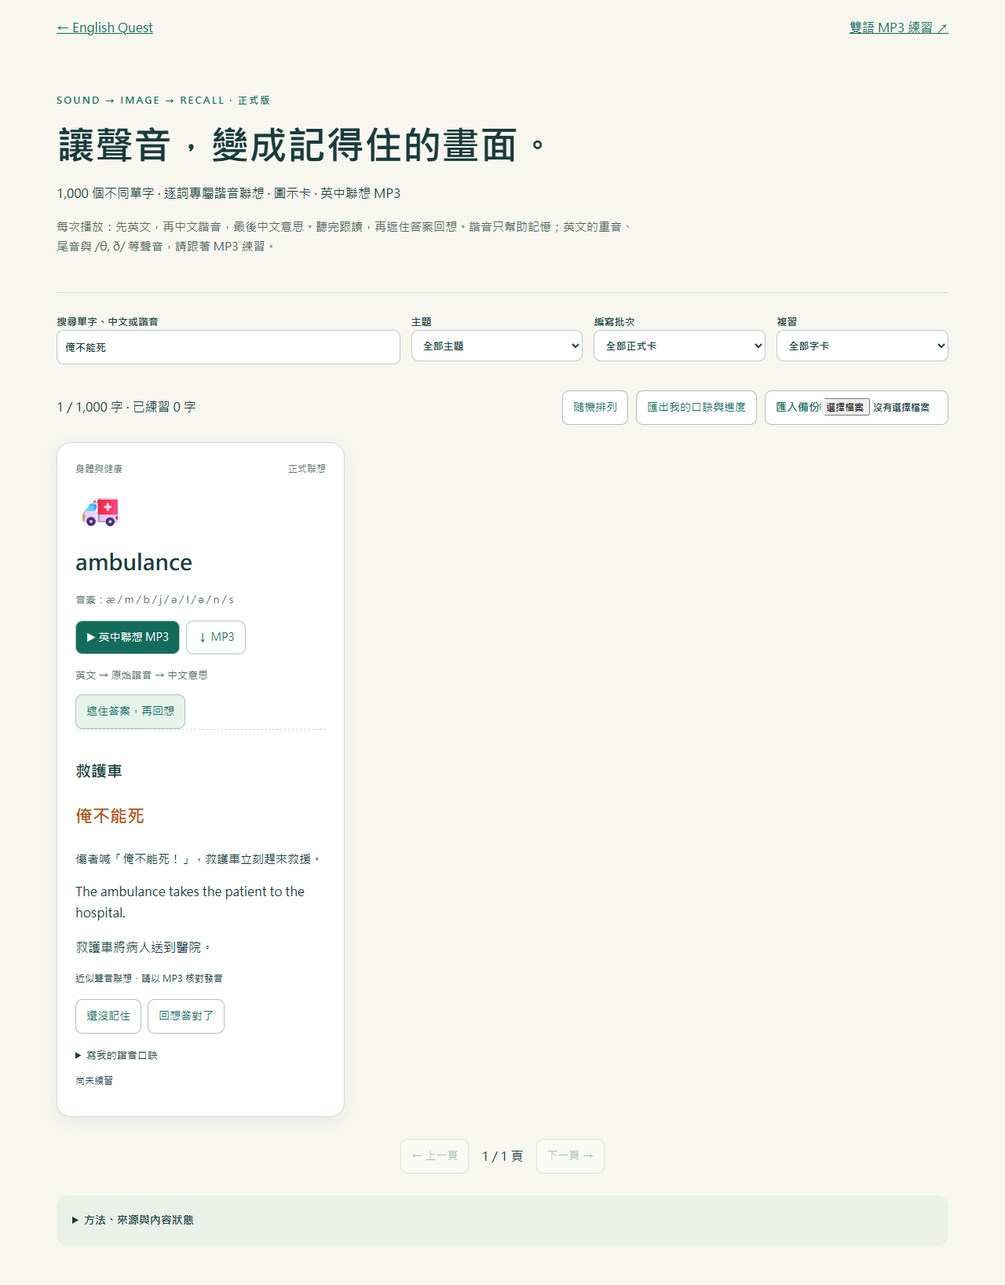
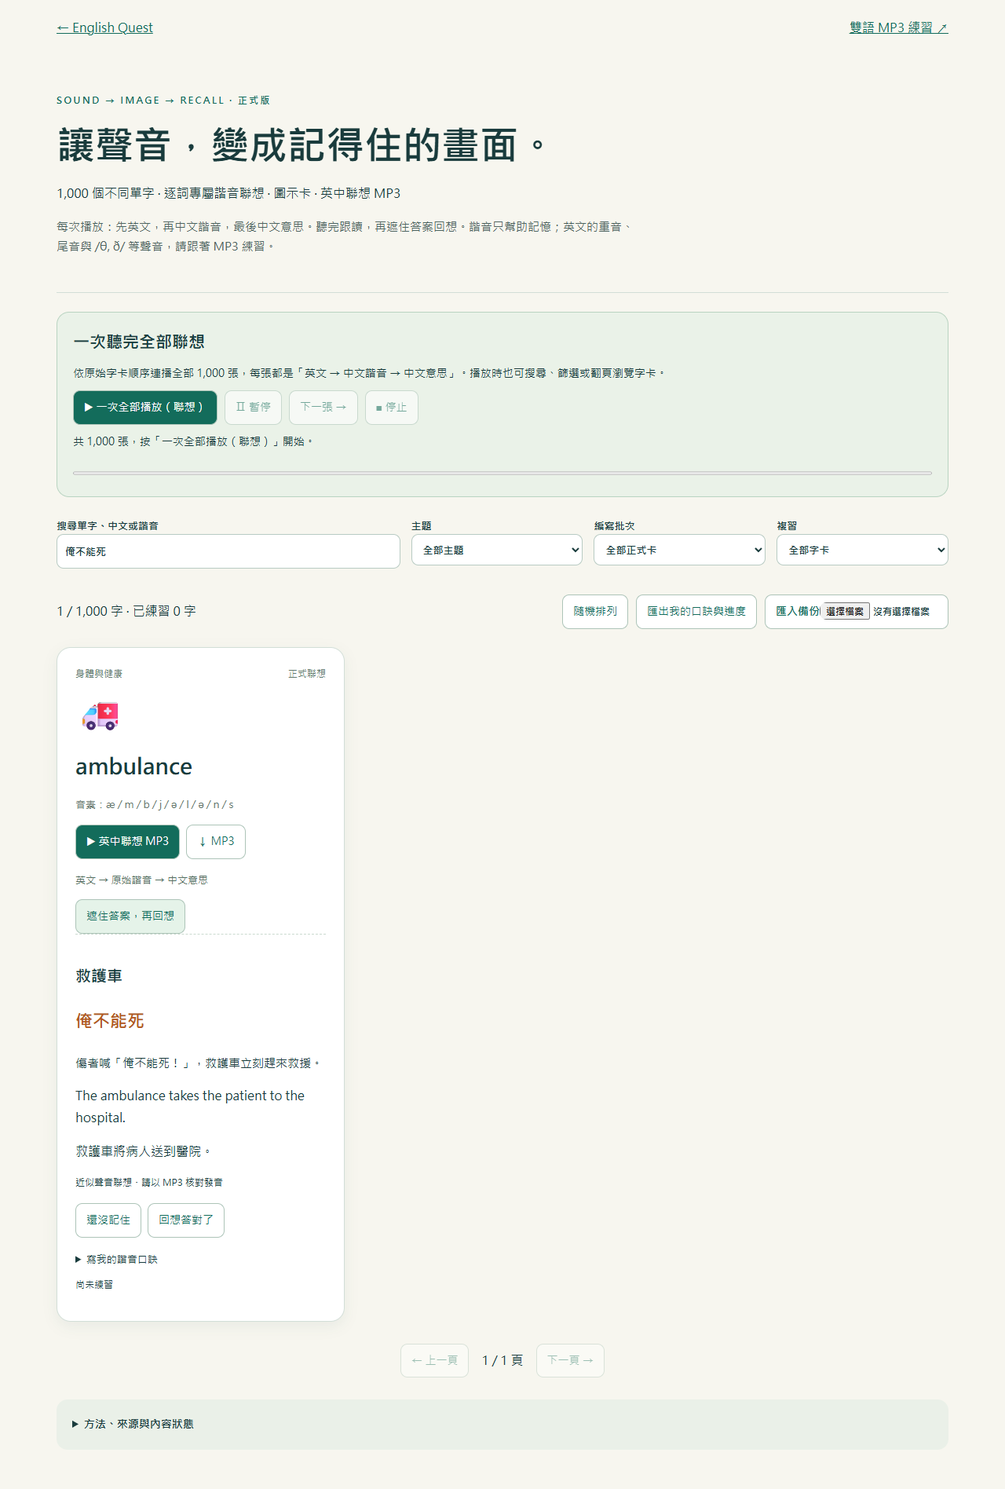
Add play all mnemonic cards with pause and queue controls

diff --git a/dist/mnemonics/index.html b/dist/mnemonics/index.html
@@ -1,8 +1,9 @@
 <!doctype html>
-<html lang="zh-Hant"><head><meta charset="utf-8"><meta name="viewport" content="width=device-width,initial-scale=1"><title>1,000 字諧音圖示卡 · English Quest</title><link rel="stylesheet" href="style.css?v=trio3"></head>
+<html lang="zh-Hant"><head><meta charset="utf-8"><meta name="viewport" content="width=device-width,initial-scale=1"><title>1,000 字諧音圖示卡 · English Quest</title><link rel="stylesheet" href="style.css?v=playlist4"></head>
 <body><header><a href="../index.html">← English Quest</a><a href="../index.html#wordaudio">雙語 MP3 練習 ↗</a></header>
 <main><section class="hero"><p class="eyebrow">SOUND → IMAGE → RECALL · 正式版</p><h1>讓聲音，變成記得住的畫面。</h1><p>1,000 個不同單字 · 逐詞專屬諧音聯想 · 圖示卡 · 英中聯想 MP3</p><p class="hint">每次播放：先英文，再中文諧音，最後中文意思。聽完跟讀，再遮住答案回想。諧音只幫助記憶；英文的重音、尾音與 /θ, ð/ 等聲音，請跟著 MP3 練習。</p></section>
+<section class="all-listening" aria-label="全部聯想連播"><h2>一次聽完全部聯想</h2><p>依原始字卡順序連播全部 1,000 張，每張都是「英文 → 中文諧音 → 中文意思」。播放時也可搜尋、篩選或翻頁瀏覽字卡。</p><div class="all-controls"><button id="play-all" class="primary" type="button" disabled>▶ 一次全部播放（聯想）</button><button id="all-pause" type="button" disabled aria-pressed="false">Ⅱ 暫停</button><button id="all-next" type="button" disabled>下一張 →</button><button id="all-stop" type="button" disabled>■ 停止</button></div><p id="all-status" role="status">正在準備播放清單…</p><progress id="all-progress" max="1000" value="0" aria-label="全部聯想播放進度"></progress></section>
 <section class="toolbar" aria-label="篩選字卡"><label>搜尋單字、中文或諧音<input id="search" type="search" placeholder="試試 ambulance 或 俺不能死"></label><label>主題<select id="category"><option value="">全部主題</option></select></label><label>編寫批次<select id="kind"><option value="">全部正式卡</option><option>本次補齊</option><option>原有聯想</option></select></label><label>複習<select id="review"><option value="all">全部字卡</option><option value="due">到期複習</option><option value="new">尚未練習</option></select></label></section>
 <div class="summary"><p id="count" role="status">正在載入字卡…</p><button id="shuffle" type="button">隨機排列</button><button id="export" type="button">匯出我的口訣與進度</button><label class="import">匯入備份<input id="import" type="file" accept="application/json,.json"></label></div>
 <p id="notice" role="status"></p><section id="cards" class="grid" aria-label="諧音記憶字卡"></section><nav class="pagination" aria-label="分頁"><button id="prev">← 上一頁</button><span id="page"></span><button id="next">下一頁 →</button></nav>
-<details class="sources"><summary>方法、來源與內容狀態</summary><p>這裡的 1,000 張卡使用本站繁體中文釋義，英文聲音序列由 CMU 美式發音辭典轉換；序列以斜線分隔音素，不是字典式分音節 IPA。每個 MP3 依序包含美式英文、臺灣中文諧音及中文意思。lead、read、subject 的英文依本卡詞義從明確語境擷取，其餘沿用既有英文音檔。中文意思省略括號中的文法備註；不朗讀完整聯想故事。</p><p id="editorial"></p><p>諧音採近似聲音，有些加入人物名字或只取部分音素；不是標準發音或字源解釋。圖示使用系統 Emoji。聯想由 AI 輔助逐詞編寫並對照聲音及詞義，完成本站內容檢查，未經外部教師審定。你仍可改成更適合自己的口訣。</p><p>研究在特定實驗條件下支持關鍵字聯想結合回想練習，不能保證每張卡的記憶效果。本站採用答錯十分鐘、答對一／三／七／十四天的複習間隔，屬產品設計。</p><ul><li><a href="https://pmc.ncbi.nlm.nih.gov/articles/PMC10839596/">Qu 等人，2024：關鍵字記憶法與回想練習研究</a></li><li><a href="https://github.com/cmusphinx/cmudict">CMU Pronouncing Dictionary（發音資料及授權）</a></li><li><a href="https://dictionary.cambridge.org/us/pronunciation/english/ambulance">Cambridge：ambulance 正確發音</a></li></ul><p>「俺不能死」依你的範例編寫。想像傷者呼救與救護車到場，實際救援仍交由專業人員。</p><p>進度存在此瀏覽器，請匯出備份以跨裝置保存。</p></details></main><script type="module" src="app.mjs?v=trio3"></script></body></html>
+<details class="sources"><summary>方法、來源與內容狀態</summary><p>這裡的 1,000 張卡使用本站繁體中文釋義，英文聲音序列由 CMU 美式發音辭典轉換；序列以斜線分隔音素，不是字典式分音節 IPA。每個 MP3 依序包含美式英文、臺灣中文諧音及中文意思。lead、read、subject 的英文依本卡詞義從明確語境擷取，其餘沿用既有英文音檔。中文意思省略括號中的文法備註；不朗讀完整聯想故事。</p><p id="editorial"></p><p>諧音採近似聲音，有些加入人物名字或只取部分音素；不是標準發音或字源解釋。圖示使用系統 Emoji。聯想由 AI 輔助逐詞編寫並對照聲音及詞義，完成本站內容檢查，未經外部教師審定。你仍可改成更適合自己的口訣。</p><p>研究在特定實驗條件下支持關鍵字聯想結合回想練習，不能保證每張卡的記憶效果。本站採用答錯十分鐘、答對一／三／七／十四天的複習間隔，屬產品設計。</p><ul><li><a href="https://pmc.ncbi.nlm.nih.gov/articles/PMC10839596/">Qu 等人，2024：關鍵字記憶法與回想練習研究</a></li><li><a href="https://github.com/cmusphinx/cmudict">CMU Pronouncing Dictionary（發音資料及授權）</a></li><li><a href="https://dictionary.cambridge.org/us/pronunciation/english/ambulance">Cambridge：ambulance 正確發音</a></li></ul><p>「俺不能死」依你的範例編寫。想像傷者呼救與救護車到場，實際救援仍交由專業人員。</p><p>進度存在此瀏覽器，請匯出備份以跨裝置保存。</p></details></main><script type="module" src="app.mjs?v=playlist4"></script></body></html>

diff --git a/site/dist/mnemonics/index.html b/site/dist/mnemonics/index.html
@@ -1,8 +1,9 @@
 <!doctype html>
-<html lang="zh-Hant"><head><meta charset="utf-8"><meta name="viewport" content="width=device-width,initial-scale=1"><title>1,000 字諧音圖示卡 · English Quest</title><link rel="stylesheet" href="style.css?v=trio3"></head>
+<html lang="zh-Hant"><head><meta charset="utf-8"><meta name="viewport" content="width=device-width,initial-scale=1"><title>1,000 字諧音圖示卡 · English Quest</title><link rel="stylesheet" href="style.css?v=playlist4"></head>
 <body><header><a href="../index.html">← English Quest</a><a href="../index.html#wordaudio">雙語 MP3 練習 ↗</a></header>
 <main><section class="hero"><p class="eyebrow">SOUND → IMAGE → RECALL · 正式版</p><h1>讓聲音，變成記得住的畫面。</h1><p>1,000 個不同單字 · 逐詞專屬諧音聯想 · 圖示卡 · 英中聯想 MP3</p><p class="hint">每次播放：先英文，再中文諧音，最後中文意思。聽完跟讀，再遮住答案回想。諧音只幫助記憶；英文的重音、尾音與 /θ, ð/ 等聲音，請跟著 MP3 練習。</p></section>
+<section class="all-listening" aria-label="全部聯想連播"><h2>一次聽完全部聯想</h2><p>依原始字卡順序連播全部 1,000 張，每張都是「英文 → 中文諧音 → 中文意思」。播放時也可搜尋、篩選或翻頁瀏覽字卡。</p><div class="all-controls"><button id="play-all" class="primary" type="button" disabled>▶ 一次全部播放（聯想）</button><button id="all-pause" type="button" disabled aria-pressed="false">Ⅱ 暫停</button><button id="all-next" type="button" disabled>下一張 →</button><button id="all-stop" type="button" disabled>■ 停止</button></div><p id="all-status" role="status">正在準備播放清單…</p><progress id="all-progress" max="1000" value="0" aria-label="全部聯想播放進度"></progress></section>
 <section class="toolbar" aria-label="篩選字卡"><label>搜尋單字、中文或諧音<input id="search" type="search" placeholder="試試 ambulance 或 俺不能死"></label><label>主題<select id="category"><option value="">全部主題</option></select></label><label>編寫批次<select id="kind"><option value="">全部正式卡</option><option>本次補齊</option><option>原有聯想</option></select></label><label>複習<select id="review"><option value="all">全部字卡</option><option value="due">到期複習</option><option value="new">尚未練習</option></select></label></section>
 <div class="summary"><p id="count" role="status">正在載入字卡…</p><button id="shuffle" type="button">隨機排列</button><button id="export" type="button">匯出我的口訣與進度</button><label class="import">匯入備份<input id="import" type="file" accept="application/json,.json"></label></div>
 <p id="notice" role="status"></p><section id="cards" class="grid" aria-label="諧音記憶字卡"></section><nav class="pagination" aria-label="分頁"><button id="prev">← 上一頁</button><span id="page"></span><button id="next">下一頁 →</button></nav>
-<details class="sources"><summary>方法、來源與內容狀態</summary><p>這裡的 1,000 張卡使用本站繁體中文釋義，英文聲音序列由 CMU 美式發音辭典轉換；序列以斜線分隔音素，不是字典式分音節 IPA。每個 MP3 依序包含美式英文、臺灣中文諧音及中文意思。lead、read、subject 的英文依本卡詞義從明確語境擷取，其餘沿用既有英文音檔。中文意思省略括號中的文法備註；不朗讀完整聯想故事。</p><p id="editorial"></p><p>諧音採近似聲音，有些加入人物名字或只取部分音素；不是標準發音或字源解釋。圖示使用系統 Emoji。聯想由 AI 輔助逐詞編寫並對照聲音及詞義，完成本站內容檢查，未經外部教師審定。你仍可改成更適合自己的口訣。</p><p>研究在特定實驗條件下支持關鍵字聯想結合回想練習，不能保證每張卡的記憶效果。本站採用答錯十分鐘、答對一／三／七／十四天的複習間隔，屬產品設計。</p><ul><li><a href="https://pmc.ncbi.nlm.nih.gov/articles/PMC10839596/">Qu 等人，2024：關鍵字記憶法與回想練習研究</a></li><li><a href="https://github.com/cmusphinx/cmudict">CMU Pronouncing Dictionary（發音資料及授權）</a></li><li><a href="https://dictionary.cambridge.org/us/pronunciation/english/ambulance">Cambridge：ambulance 正確發音</a></li></ul><p>「俺不能死」依你的範例編寫。想像傷者呼救與救護車到場，實際救援仍交由專業人員。</p><p>進度存在此瀏覽器，請匯出備份以跨裝置保存。</p></details></main><script type="module" src="app.mjs?v=trio3"></script></body></html>
+<details class="sources"><summary>方法、來源與內容狀態</summary><p>這裡的 1,000 張卡使用本站繁體中文釋義，英文聲音序列由 CMU 美式發音辭典轉換；序列以斜線分隔音素，不是字典式分音節 IPA。每個 MP3 依序包含美式英文、臺灣中文諧音及中文意思。lead、read、subject 的英文依本卡詞義從明確語境擷取，其餘沿用既有英文音檔。中文意思省略括號中的文法備註；不朗讀完整聯想故事。</p><p id="editorial"></p><p>諧音採近似聲音，有些加入人物名字或只取部分音素；不是標準發音或字源解釋。圖示使用系統 Emoji。聯想由 AI 輔助逐詞編寫並對照聲音及詞義，完成本站內容檢查，未經外部教師審定。你仍可改成更適合自己的口訣。</p><p>研究在特定實驗條件下支持關鍵字聯想結合回想練習，不能保證每張卡的記憶效果。本站採用答錯十分鐘、答對一／三／七／十四天的複習間隔，屬產品設計。</p><ul><li><a href="https://pmc.ncbi.nlm.nih.gov/articles/PMC10839596/">Qu 等人，2024：關鍵字記憶法與回想練習研究</a></li><li><a href="https://github.com/cmusphinx/cmudict">CMU Pronouncing Dictionary（發音資料及授權）</a></li><li><a href="https://dictionary.cambridge.org/us/pronunciation/english/ambulance">Cambridge：ambulance 正確發音</a></li></ul><p>「俺不能死」依你的範例編寫。想像傷者呼救與救護車到場，實際救援仍交由專業人員。</p><p>進度存在此瀏覽器，請匯出備份以跨裝置保存。</p></details></main><script type="module" src="app.mjs?v=playlist4"></script></body></html>

diff --git a/dist/mnemonics/style.css b/dist/mnemonics/style.css
@@ -1,4 +1,5 @@
 @import url('../learning_layout.css');
 .sound-note{background:#f1f5ed;border-left:3px solid #91b6a0;border-radius:4px;padding:10px 12px;font-size:13px;line-height:1.8}
 .audio-order{font-size:13px;color:#526e60;margin:0 0 14px}
+.all-listening{margin:24px 0 0;padding:20px;border:1px solid #b9d4c1;border-radius:16px;background:#eaf2e8}.all-listening h2{font-size:21px;margin:0 0 8px}.all-controls{display:flex;gap:9px;flex-wrap:wrap}.all-controls .primary{background:#136c5b;color:white}.all-listening p{font-size:14px;margin:10px 0}.all-listening progress{width:100%;height:9px;accent-color:#136c5b}.word-card.is-playing{border:2px solid #136c5b}.all-controls button:disabled{opacity:.55}
 :root{color-scheme:light;--ink:#193b3c;--green:#136c5b;--cream:#f7f6ef}*{box-sizing:border-box}body{margin:0;background:var(--cream);color:var(--ink);font-family:system-ui,'Microsoft JhengHei',sans-serif;line-height:1.7}header{max-width:1180px;margin:auto;padding:22px;display:flex;justify-content:space-between;gap:16px;flex-wrap:wrap}a{color:var(--green)}main{max-width:1180px;margin:auto;padding:0 22px 50px}.hero{padding:35px 0 30px;border-bottom:1px solid #d2ded7}.eyebrow{font-size:12px;letter-spacing:.19em;color:var(--green);font-weight:800}h1{font-size:clamp(28px,4.4vw,49px);line-height:1.35;margin:12px 0}h2{font-size:28px;margin:6px 0;overflow-wrap:anywhere}.hint{max-width:740px;font-size:15px;color:#4d6460}.toolbar{display:grid;grid-template-columns:2fr 1fr 1fr 1fr;gap:14px;padding:25px 0}label{display:block;font-size:13px;font-weight:600}input,select,textarea,button{font:inherit}input,select,textarea{width:100%;padding:10px;border:1px solid #b8cbc3;border-radius:9px;color:var(--ink);background:#fff;min-width:0}button,.download,.import{border:1px solid #adc4b8;background:#fff;color:var(--green);border-radius:9px;padding:9px 13px;cursor:pointer;font-size:14px;text-decoration:none}button:hover,.download:hover{background:#e5f3e9}button:disabled{opacity:.4;cursor:default}button:focus-visible,a:focus-visible,input:focus-visible,summary:focus-visible,select:focus-visible,textarea:focus-visible{outline:3px solid #d97d24;outline-offset:3px}.summary{display:flex;gap:10px;align-items:center;flex-wrap:wrap;margin-bottom:15px}.summary p{margin-right:auto}.import input{max-width:150px;padding:0;border:0;font-size:12px}.grid{display:grid;grid-template-columns:repeat(3,minmax(0,1fr));gap:18px}.word-card{padding:23px;background:#fff;border:1px solid #d2ded7;border-radius:18px;box-shadow:0 6px 18px #153b3010;min-width:0}.topline{display:flex;justify-content:space-between;align-items:center;font-size:12px;color:#627a6e;gap:10px}.icon{font-size:46px}.phonetic{font-size:13px;overflow-wrap:anywhere;color:#65766c}.actions{display:flex;gap:8px;flex-wrap:wrap;margin:15px 0}.play{background:var(--green);color:#fff}.play:hover{background:#195e52}.answer{border-top:1px dashed #cadacf;padding-top:16px}.cue{font-size:22px;font-weight:750;color:#b25820;overflow-wrap:anywhere}.scene{font-size:15px}.meaning{font-size:20px;font-weight:750}.grade{display:flex;gap:8px;margin:16px 0}.status{font-size:12px}.custom{margin-top:14px}.custom summary{cursor:pointer;font-size:13px}textarea{margin:10px 0;min-height:75px}.pagination{display:flex;justify-content:center;align-items:center;gap:16px;margin:28px 0}.sources{padding:20px;background:#eaf0e8;border-radius:14px;font-size:14px}.sources summary{font-weight:700;cursor:pointer}#notice:empty{display:none}#notice{padding:10px;background:#fff3de;border-radius:8px}audio{width:100%;margin-bottom:12px}#player-status{font-size:13px} @media(max-width:900px){.grid{grid-template-columns:repeat(2,minmax(0,1fr))}.toolbar{grid-template-columns:repeat(2,minmax(0,1fr))}}@media(max-width:560px){main,header{padding-left:16px;padding-right:16px}.hero{padding-top:15px}.grid{grid-template-columns:1fr}.toolbar{gap:9px}.toolbar label:first-child{grid-column:1/-1}.word-card{padding:19px}.summary p{width:100%;margin:0}.pagination{gap:10px}}@media(prefers-reduced-motion:reduce){*{scroll-behavior:auto!important}}

diff --git a/site/dist/mnemonics/style.css b/site/dist/mnemonics/style.css
@@ -1,4 +1,5 @@
 @import url('../learning_layout.css');
 .sound-note{background:#f1f5ed;border-left:3px solid #91b6a0;border-radius:4px;padding:10px 12px;font-size:13px;line-height:1.8}
 .audio-order{font-size:13px;color:#526e60;margin:0 0 14px}
+.all-listening{margin:24px 0 0;padding:20px;border:1px solid #b9d4c1;border-radius:16px;background:#eaf2e8}.all-listening h2{font-size:21px;margin:0 0 8px}.all-controls{display:flex;gap:9px;flex-wrap:wrap}.all-controls .primary{background:#136c5b;color:white}.all-listening p{font-size:14px;margin:10px 0}.all-listening progress{width:100%;height:9px;accent-color:#136c5b}.word-card.is-playing{border:2px solid #136c5b}.all-controls button:disabled{opacity:.55}
 :root{color-scheme:light;--ink:#193b3c;--green:#136c5b;--cream:#f7f6ef}*{box-sizing:border-box}body{margin:0;background:var(--cream);color:var(--ink);font-family:system-ui,'Microsoft JhengHei',sans-serif;line-height:1.7}header{max-width:1180px;margin:auto;padding:22px;display:flex;justify-content:space-between;gap:16px;flex-wrap:wrap}a{color:var(--green)}main{max-width:1180px;margin:auto;padding:0 22px 50px}.hero{padding:35px 0 30px;border-bottom:1px solid #d2ded7}.eyebrow{font-size:12px;letter-spacing:.19em;color:var(--green);font-weight:800}h1{font-size:clamp(28px,4.4vw,49px);line-height:1.35;margin:12px 0}h2{font-size:28px;margin:6px 0;overflow-wrap:anywhere}.hint{max-width:740px;font-size:15px;color:#4d6460}.toolbar{display:grid;grid-template-columns:2fr 1fr 1fr 1fr;gap:14px;padding:25px 0}label{display:block;font-size:13px;font-weight:600}input,select,textarea,button{font:inherit}input,select,textarea{width:100%;padding:10px;border:1px solid #b8cbc3;border-radius:9px;color:var(--ink);background:#fff;min-width:0}button,.download,.import{border:1px solid #adc4b8;background:#fff;color:var(--green);border-radius:9px;padding:9px 13px;cursor:pointer;font-size:14px;text-decoration:none}button:hover,.download:hover{background:#e5f3e9}button:disabled{opacity:.4;cursor:default}button:focus-visible,a:focus-visible,input:focus-visible,summary:focus-visible,select:focus-visible,textarea:focus-visible{outline:3px solid #d97d24;outline-offset:3px}.summary{display:flex;gap:10px;align-items:center;flex-wrap:wrap;margin-bottom:15px}.summary p{margin-right:auto}.import input{max-width:150px;padding:0;border:0;font-size:12px}.grid{display:grid;grid-template-columns:repeat(3,minmax(0,1fr));gap:18px}.word-card{padding:23px;background:#fff;border:1px solid #d2ded7;border-radius:18px;box-shadow:0 6px 18px #153b3010;min-width:0}.topline{display:flex;justify-content:space-between;align-items:center;font-size:12px;color:#627a6e;gap:10px}.icon{font-size:46px}.phonetic{font-size:13px;overflow-wrap:anywhere;color:#65766c}.actions{display:flex;gap:8px;flex-wrap:wrap;margin:15px 0}.play{background:var(--green);color:#fff}.play:hover{background:#195e52}.answer{border-top:1px dashed #cadacf;padding-top:16px}.cue{font-size:22px;font-weight:750;color:#b25820;overflow-wrap:anywhere}.scene{font-size:15px}.meaning{font-size:20px;font-weight:750}.grade{display:flex;gap:8px;margin:16px 0}.status{font-size:12px}.custom{margin-top:14px}.custom summary{cursor:pointer;font-size:13px}textarea{margin:10px 0;min-height:75px}.pagination{display:flex;justify-content:center;align-items:center;gap:16px;margin:28px 0}.sources{padding:20px;background:#eaf0e8;border-radius:14px;font-size:14px}.sources summary{font-weight:700;cursor:pointer}#notice:empty{display:none}#notice{padding:10px;background:#fff3de;border-radius:8px}audio{width:100%;margin-bottom:12px}#player-status{font-size:13px} @media(max-width:900px){.grid{grid-template-columns:repeat(2,minmax(0,1fr))}.toolbar{grid-template-columns:repeat(2,minmax(0,1fr))}}@media(max-width:560px){main,header{padding-left:16px;padding-right:16px}.hero{padding-top:15px}.grid{grid-template-columns:1fr}.toolbar{gap:9px}.toolbar label:first-child{grid-column:1/-1}.word-card{padding:19px}.summary p{width:100%;margin:0}.pagination{gap:10px}}@media(prefers-reduced-motion:reduce){*{scroll-behavior:auto!important}}

diff --git a/REVIEW-MNEMONIC-PLAYLIST-2026-10-11.md b/REVIEW-MNEMONIC-PLAYLIST-2026-10-11.md
@@ -1,0 +1,17 @@
+# 一次全部播放（聯想）
+
+在聯想字卡頁新增「一次全部播放（聯想）」按鈕，按原始順序依次播放全部 1,000 個三段 MP3：英文、中文諧音、中文意思。使用現有已驗證音檔，不重新合成語音。
+
+連播控制包含暫停／繼續、下一張、停止、目前字卡及 1,000 張進度。每張自然播放結束後接下一張，最後結束，不迴圈。只載入當前音檔，不一次預載全套。
+
+搜尋、主題篩選、隨機瀏覽與翻頁不改變已啟動的連播順序，也不打斷連播。按某張卡的單張播放會停止全部連播，開始全部連播則停止單張播放，避免兩路聲音重疊。離開頁面停止播放。聽讀不自動標記回想答對或更動複習進度。
+
+音檔載入失敗時停在當前字卡，提供重試或明確跳到下一張；不默默略過。以播放工作版本處理快速停止、切換及未完成的 play Promise，避免過期 callback 重啟聲音。網站資產版本為 `playlist4`，協助原有使用者取得新版播放器。
+
+## 驗證
+
+- `node --test scripts/test_mnemonic_playlist.mjs`：全部 1,000 張依序一次播放、最後停止、暫停保留位置、跳下一張、停止後重開、失敗重試、過期 Promise 取消。此測試使用模擬 Audio，驗證完整控制流程。
+- `node scripts/qa_mnemonic_playlist.cjs`：實際 Edge 音訊，測試 ambulance 自動接 family、暫停接續、下一張、單張／全部互斥、搜尋與翻頁持續播放、真正 404 音檔失敗及重試。320、390、1280px 檢查無水平溢位。
+- `node scripts/qa_mnemonics.cjs`：既有三段 MP3、下載、全套解碼、84 頁手機排版、自訂口訣、複習與備份回歸檢查。
+
+瀏覽器測試報告：`QA-MNEMONIC-PLAYLIST-2026-10-11.json`；手機截圖：`QA-mnemonic-playlist-mobile-2026-10-11.png`。全套控制流程已測到最後一張；沒有宣稱真人連續聽完約兩小時的全套音訊。

diff --git a/README.md b/README.md
@@ -2,6 +2,8 @@
 
 ## 2026-10-11 諧音圖示卡正式版
 
+新增「一次全部播放（聯想）」：依原始順序連播全部 1,000 張三段 MP3，提供暫停接續、下一張、停止與播放進度；搜尋或翻頁時可繼續聽。見 [連播驗證紀錄](REVIEW-MNEMONIC-PLAYLIST-2026-10-11.md)。
+
 [1,000 字諧音圖示卡](https://waatax.github.io/ENG/mnemonics/) 已補齊全部 933 張，正式版共有 1,000 個專屬諧音與意思場景、零草稿。提供搜尋、翻卡、自訂口訣、複習進度、JSON 備份，以及每字獨立英中聯想 MP3 播放與下載：**英文 → 中文諧音 → 中文意思**，例如 ambulance → 俺不能死 → 救護車。圖示採 Emoji；多音詞有辨音提示。諧音僅作記憶線索，發音請跟隨英文語音。三段語音及驗證方式見 [三段 MP3 紀錄](REVIEW-MNEMONIC-TRIO-2026-10-11.md)；AI 編寫範圍、PDCA 與重建方式見 [正式版紀錄](REVIEW-2026-10-11.md)，前次研究與草稿版紀錄見 [2026-10-10](REVIEW-2026-10-10.md)。
 
 English Quest 是以繁體中文說明英語知識點、提供分年級課程與自學練習的靜態網站。網站提供國小至高中主題課程，以及 TOEIC、SAT、GRE、GMAT 等考試方向的原創練習與官方資源入口。這些課程標籤供導航使用，不表示教育機構或考試主辦方認證。
